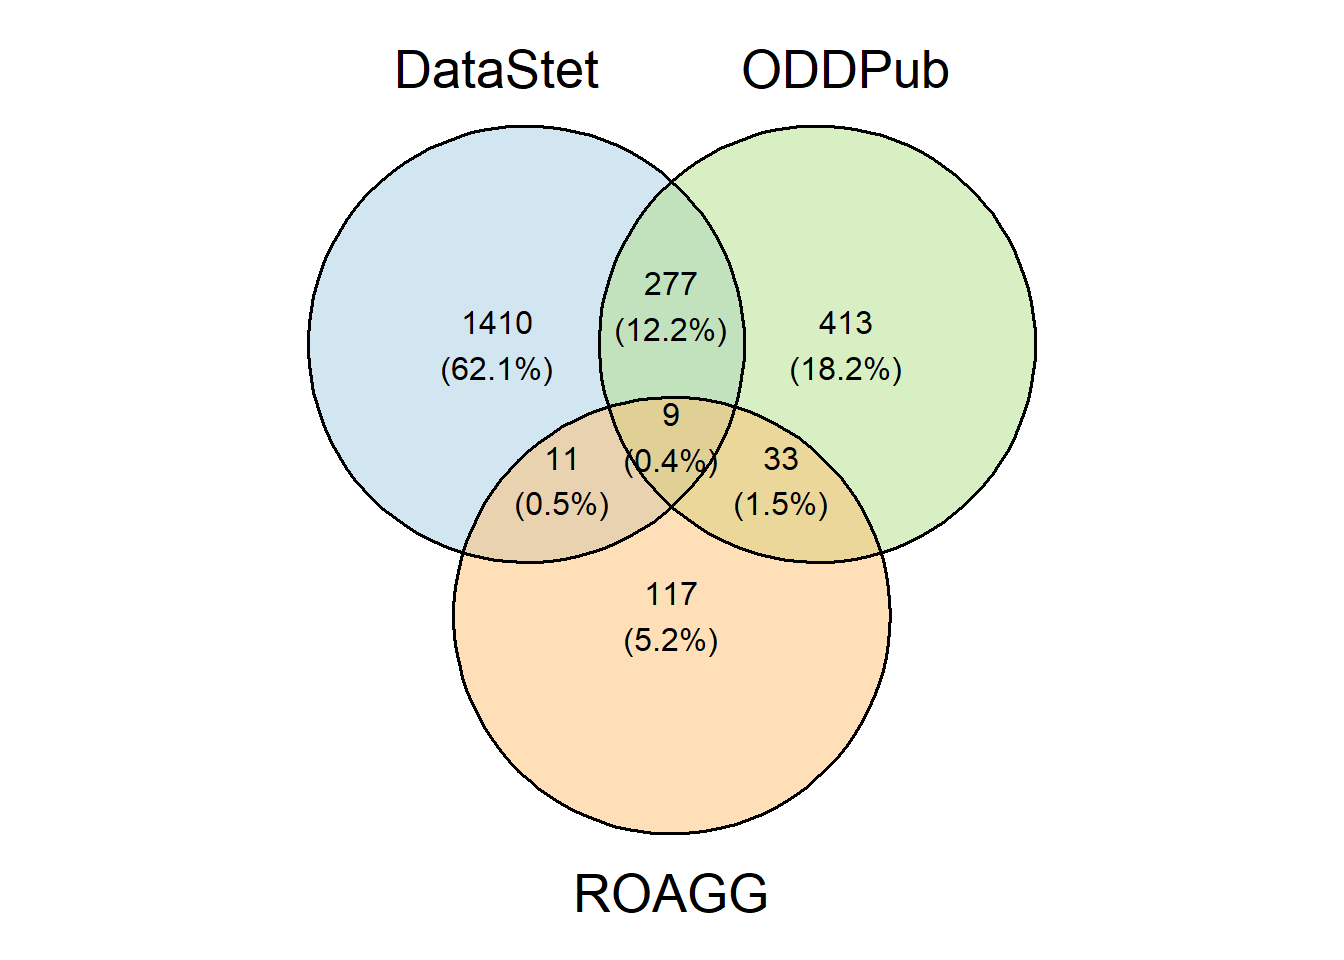
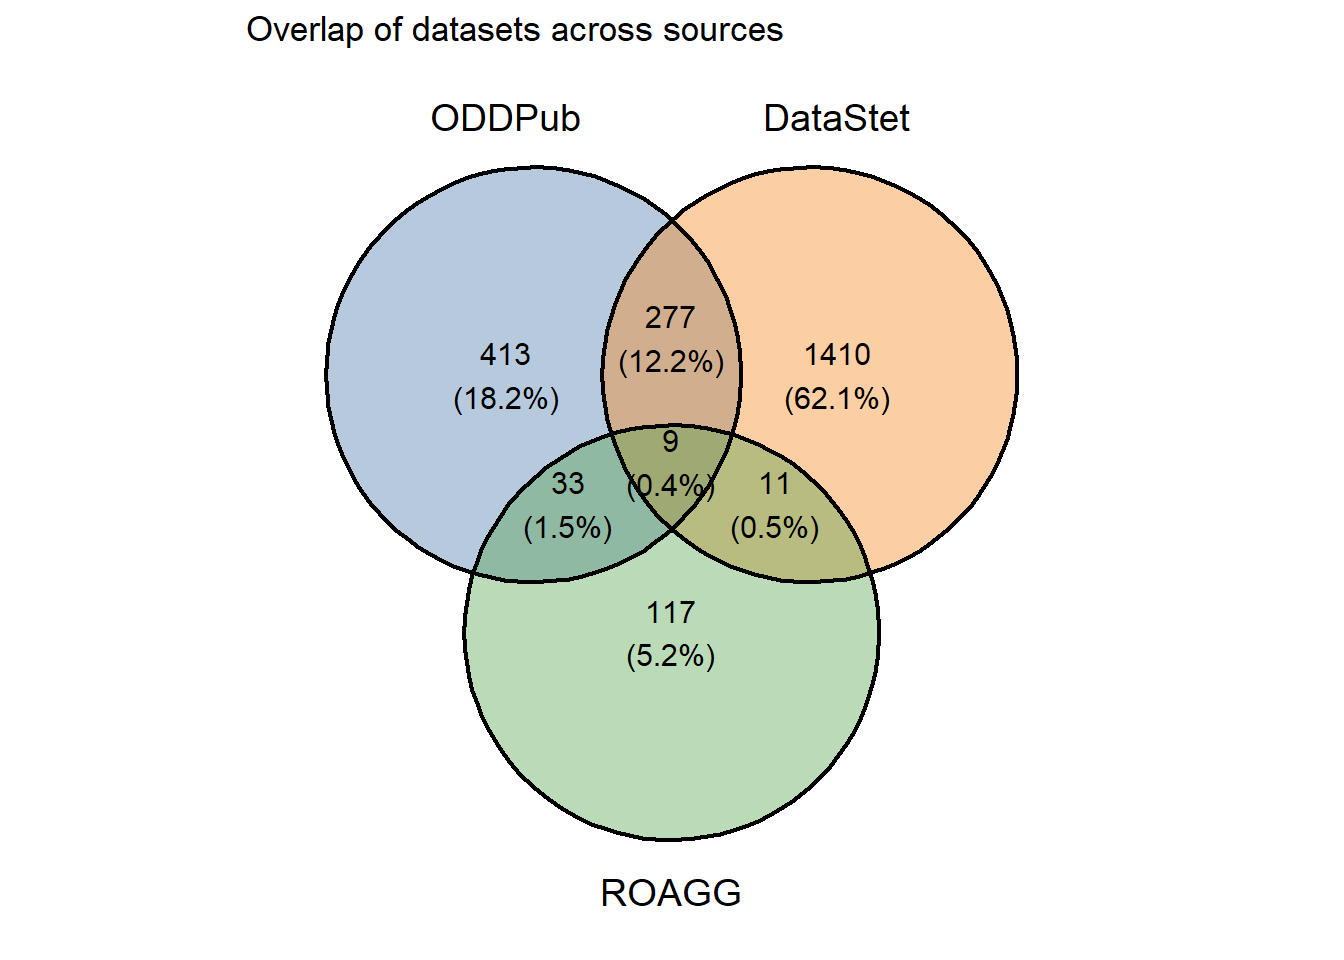
added tables of sources contributions to Results.qmd and rendered it.

diff --git a/Results.html b/Results.html
@@ -182,6 +182,34 @@ Figure&nbsp;2
 <section id="sources-of-identifiers" class="level1">
 <h1>Sources of Identifiers</h1>
 <div class="cell">
+<div class="cell-output cell-output-stdout">
+<pre><code># A tibble: 3 × 2
+  source   unique_contribution
+  &lt;chr&gt;                  &lt;int&gt;
+1 ODDPub                   732
+2 DataStet                1421
+3 ROAGG                    117</code></pre>
+</div>
+<div class="cell-output cell-output-stdout">
+<pre><code># A tibble: 3 × 2
+  source   unique_contribution
+  &lt;chr&gt;                  &lt;int&gt;
+1 ODDPub                   732
+2 ROAGG                    128
+3 DataStet                1410</code></pre>
+</div>
+<div class="cell-output cell-output-stdout">
+<pre><code># A tibble: 7 × 2
+  overlap                n_datasets
+  &lt;fct&gt;                       &lt;int&gt;
+1 ODDPub only                   413
+2 DataStet only                1410
+3 ROAGG only                    117
+4 ODDPub + DataStet only        277
+5 ODDPub + ROAGG only            33
+6 DataStet + ROAGG only          11
+7 All three                       9</code></pre>
+</div>
 <div class="cell-output-display">
 <div id="fig-venn-ids" class="quarto-float quarto-figure quarto-figure-center anchored" width="100%">
 <figure class="quarto-float quarto-float-fig figure">
